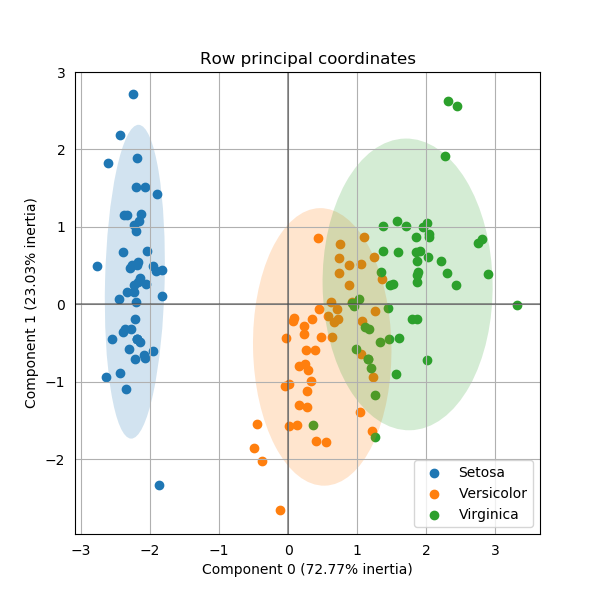
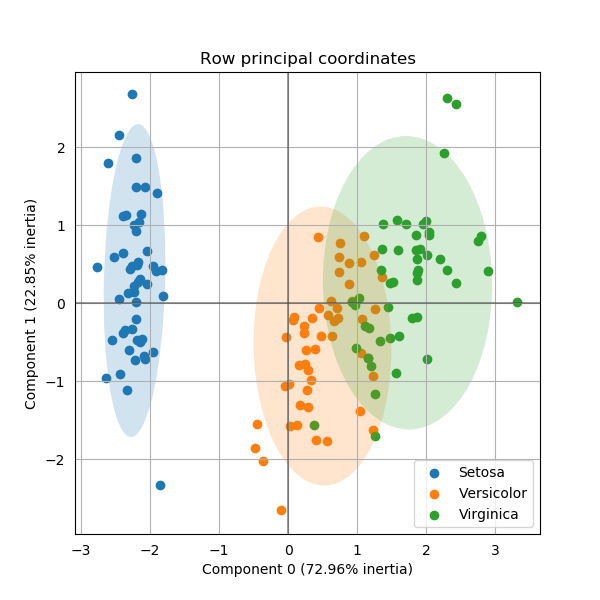
Move to sklearn 0.20's OneHotEncoder and fix README results

diff --git a/prince/one_hot.py b/prince/one_hot.py
@@ -1,150 +1,18 @@
 """This module contains a custom one-hot encoder. It inherits from sklearn's
-OneHotEncoder and returns a pandas DataFrame with appropriate column names.
+OneHotEncoder and returns a pandas.SparseDataFrame with appropriate column
+names and index values.
 """
 import itertools
 
 import numpy as np
 import pandas as pd
-from scipy import sparse
 from sklearn import preprocessing
-from sklearn import base
-from sklearn import utils
 
 
-class CategoricalEncoder(base.BaseEstimator, base.TransformerMixin):
-
-    def __init__(self, encoding='onehot', categories='auto', dtype=np.float64,
-                 handle_unknown='error'):
-        self.encoding = encoding
-        self.categories = categories
-        self.dtype = dtype
-        self.handle_unknown = handle_unknown
-
-    def fit(self, X, y=None):
-        """Fit the CategoricalEncoder to X.
-        Parameters
-        ----------
-        X : array-like, shape [n_samples, n_features]
-            The data to determine the categories of each feature.
-        Returns
-        -------
-        self
-        """
-        if self.encoding not in ['onehot', 'onehot-dense', 'ordinal']:
-            template = ("encoding should be either 'onehot', 'onehot-dense' "
-                        "or 'ordinal', got %s")
-            raise ValueError(template % self.handle_unknown)
-
-        if self.handle_unknown not in ['error', 'ignore']:
-            template = ("handle_unknown should be either 'error' or "
-                        "'ignore', got %s")
-            raise ValueError(template % self.handle_unknown)
-
-        if self.encoding == 'ordinal' and self.handle_unknown == 'ignore':
-            raise ValueError("handle_unknown='ignore' is not supported for"
-                             " encoding='ordinal'")
-
-        if self.categories != 'auto':
-            for cats in self.categories:
-                if not np.all(np.sort(cats) == np.array(cats)):
-                    raise ValueError("Unsorted categories are not yet "
-                                     "supported")
-
-        X_temp = utils.check_array(X, dtype=None)
-        if not hasattr(X, 'dtype') and np.issubdtype(X_temp.dtype, np.str_):
-            X = utils.check_array(X, dtype=np.object)
-        else:
-            X = X_temp
-
-        n_samples, n_features = X.shape
-
-        self._label_encoders_ = [preprocessing.LabelEncoder() for _ in range(n_features)]
-
-        for i in range(n_features):
-            le = self._label_encoders_[i]
-            Xi = X[:, i]
-            if self.categories == 'auto':
-                le.fit(Xi)
-            else:
-                if self.handle_unknown == 'error':
-                    valid_mask = np.in1d(Xi, self.categories[i])
-                    if not np.all(valid_mask):
-                        diff = np.unique(Xi[~valid_mask])
-                        msg = ("Found unknown categories {0} in column {1}"
-                               " during fit".format(diff, i))
-                        raise ValueError(msg)
-                le.classes_ = np.array(self.categories[i])
-
-        self.categories_ = [le.classes_ for le in self._label_encoders_]
-
-        return self
-
-    def transform(self, X):
-        """Transform X using specified encoding scheme.
-        Parameters
-        ----------
-        X : array-like, shape [n_samples, n_features]
-            The data to encode.
-        Returns
-        -------
-        X_out : sparse matrix or a 2-d array
-            Transformed input.
-        """
-        X_temp = utils.check_array(X, dtype=None)
-        if not hasattr(X, 'dtype') and np.issubdtype(X_temp.dtype, np.str_):
-            X = utils.check_array(X, dtype=np.object)
-        else:
-            X = X_temp
-
-        n_samples, n_features = X.shape
-        X_int = np.zeros_like(X, dtype=np.int)
-        X_mask = np.ones_like(X, dtype=np.bool)
-
-        for i in range(n_features):
-            Xi = X[:, i]
-            valid_mask = np.in1d(Xi, self.categories_[i])
-
-            if not np.all(valid_mask):
-                if self.handle_unknown == 'error':
-                    diff = np.unique(X[~valid_mask, i])
-                    msg = ("Found unknown categories {0} in column {1}"
-                           " during transform".format(diff, i))
-                    raise ValueError(msg)
-                else:
-                    # Set the problematic rows to an acceptable value and
-                    # continue `The rows are marked `X_mask` and will be
-                    # removed later.
-                    X_mask[:, i] = valid_mask
-                    Xi = Xi.copy()
-                    Xi[~valid_mask] = self.categories_[i][0]
-            X_int[:, i] = self._label_encoders_[i].transform(Xi)
-
-        if self.encoding == 'ordinal':
-            return X_int.astype(self.dtype, copy=False)
-
-        mask = X_mask.ravel()
-        n_values = [cats.shape[0] for cats in self.categories_]
-        n_values = np.array([0] + n_values)
-        feature_indices = np.cumsum(n_values)
-
-        indices = (X_int + feature_indices[:-1]).ravel()[mask]
-        indptr = X_mask.sum(axis=1).cumsum()
-        indptr = np.insert(indptr, 0, 0)
-        data = np.ones(n_samples * n_features)[mask]
-
-        out = sparse.csr_matrix((data, indices, indptr),
-                                shape=(n_samples, feature_indices[-1]),
-                                dtype=self.dtype)
-        if self.encoding == 'onehot-dense':
-            return out.toarray()
-        else:
-            return out
-
-
-class OneHotEncoder(CategoricalEncoder):
+class OneHotEncoder(preprocessing.OneHotEncoder):
 
     def __init__(self):
-        super().__init__(encoding='onehot-dense')
+        super().__init__(sparse=True, dtype=np.uint8)
 
     def fit(self, X, y=None):
 
@@ -159,11 +27,13 @@ class OneHotEncoder(CategoricalEncoder):
             ]
             for i, col in enumerate(X.columns)
         ]))
+
         return self
 
     def transform(self, X):
-        return pd.DataFrame(
+        return pd.SparseDataFrame(
             data=super().transform(X),
             columns=self.column_names_,
-            index=X.index if isinstance(X, pd.DataFrame) else None
+            index=X.index if isinstance(X, pd.DataFrame) else None,
+            default_fill_value=0
         )

diff --git a/setup.py b/setup.py
@@ -25,9 +25,9 @@ VERSION = None
 REQUIRED = [
     'matplotlib>=2.2.2',
     'numpy>=1.14.0',
-    'pandas>=0.22.0',
+    'pandas>=0.23.0',
     'scipy>=1.0.1',
-    'scikit-learn>=0.19.1'
+    'scikit-learn>=0.20.0'
 ]
 
 # The rest you shouldn't have to touch too much :)

diff --git a/prince/mca.py b/prince/mca.py
@@ -2,6 +2,7 @@
 import matplotlib.pyplot as plt
 import numpy as np
 import pandas as pd
+from sklearn import preprocessing
 from sklearn import utils
 
 from . import ca

diff --git a/README.md b/README.md
@@ -29,9 +29,20 @@
 
 <br/>
 
-## Introduction
+Prince is a library for doing [factor analysis](https://www.wikiwand.com/en/Factor_analysis). This includes a variety of methods including [principal component analysis (PCA)](https://www.wikiwand.com/en/Principal_component_analysis) and [correspondence analysis (CA)](https://www.wikiwand.com/en/Correspondence_analysis). The goal is to provide an efficient implementation for each algorithm along with a scikit-learn API.
 
-Prince is a library for doing [factor analysis](https://www.wikiwand.com/en/Factor_analysis). This includes a variety of methods including [principal component analysis (PCA)](https://www.wikiwand.com/en/Principal_component_analysis) and [correspondence analysis (CA)](https://www.wikiwand.com/en/Correspondence_analysis). The goal is to provide an efficient implementation for each algorithm along with a nice API.
+## Table of contents
+
+- [Installation](#installation)
+- [Usage](#usage)
+  - [Guidelines](#guidelines)
+  - [Principal component analysis (PCA)](#principal-component-analysis-(pca))
+  - [Correspondence analysis (CA)](#correspondence-analysis-(ca))
+  - [Multiple correspondence analysis (MCA)](#multiple-correspondence-analysis-(mca))
+  - [Multiple factor analysis (MFA)](#multiple-factor-analysis-(mfa))
+  - [Factor analysis of mixed data (FAMD)](#factor-analysis-of-mixed-data-(famd))
+- [Going faster](#going-faster)
+- [License](#license)
 
 ## Installation
 
@@ -137,11 +148,11 @@ Once the `PCA` has been fitted, it can be used to extract the row principal coor
 ```python
 >>> pca.transform(X).head()  # Same as pca.row_coordinates(X).head()
           0         1
-0 -2.264542  0.505704
-1 -2.086426 -0.655405
-2 -2.367950 -0.318477
-3 -2.304197 -0.575368
-4 -2.388777  0.674767
+0 -2.264703  0.480027
+1 -2.080961 -0.674134
+2 -2.364229 -0.341908
+3 -2.299384 -0.597395
+4 -2.389842  0.646835
 
 ```
 
@@ -172,7 +183,7 @@ Each principal component explains part of the underlying of the distribution. Yo
 
 ```python
 >>> pca.explained_inertia_  # doctest: +ELLIPSIS
-[0.727704..., 0.230305...]
+[0.729624..., 0.228507...]
 
 ```
 
@@ -180,13 +191,13 @@ The explained inertia represents the percentage of the inertia each principal co
 
 ```python
 >>> pca.eigenvalues_  # doctest: +ELLIPSIS
-[436.622712..., 138.183139...]
+[437.774672..., 137.104570...]
 
->>> pca.total_inertia_
-600.0
+>>> pca.total_inertia_  # doctest: +ELLIPSIS
+600.0...
 
 >>> pca.explained_inertia_
-[0.727704..., 0.230305...]
+[0.729624..., 0.228507...]
 
 ```
 
@@ -195,10 +206,10 @@ You can also obtain the correlations between the original variables and the prin
 ```python
 >>> pca.column_correlations(X)
                      0         1
-Petal length  0.991684  0.020247
-Petal width   0.964996  0.062786
-Sepal length  0.891224  0.357352
-Sepal width  -0.449313  0.888351
+Petal length  0.991555  0.023415
+Petal width   0.964979  0.064000
+Sepal length  0.890169  0.360830
+Sepal width  -0.460143  0.882716
 
 ```
 
@@ -207,11 +218,11 @@ You may also want to know how much each observation contributes to each principa
 ```python
 >>> pca.row_contributions(X).head()
           0         1
-0  0.011745  0.001851
-1  0.009970  0.003109
-2  0.012842  0.000734
-3  0.012160  0.002396
-4  0.013069  0.003295
+0  0.011716  0.001681
+1  0.009892  0.003315
+2  0.012768  0.000853
+3  0.012077  0.002603
+4  0.013046  0.003052
 
 ```
 
